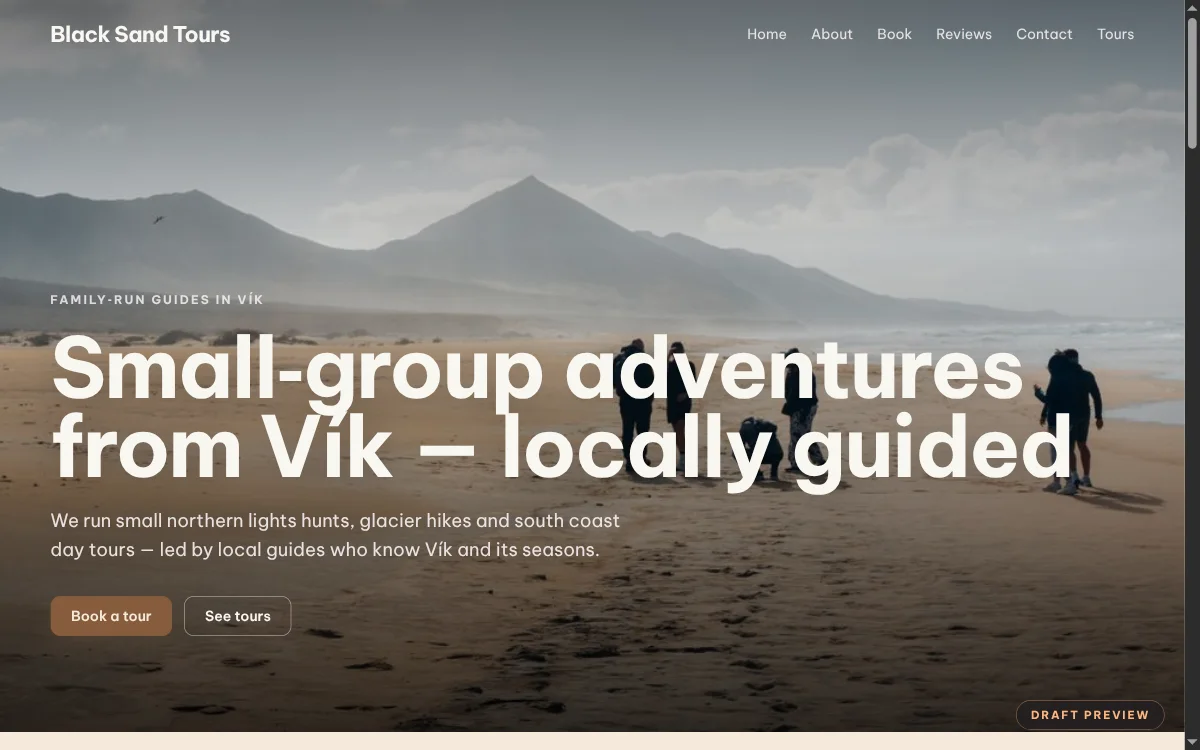
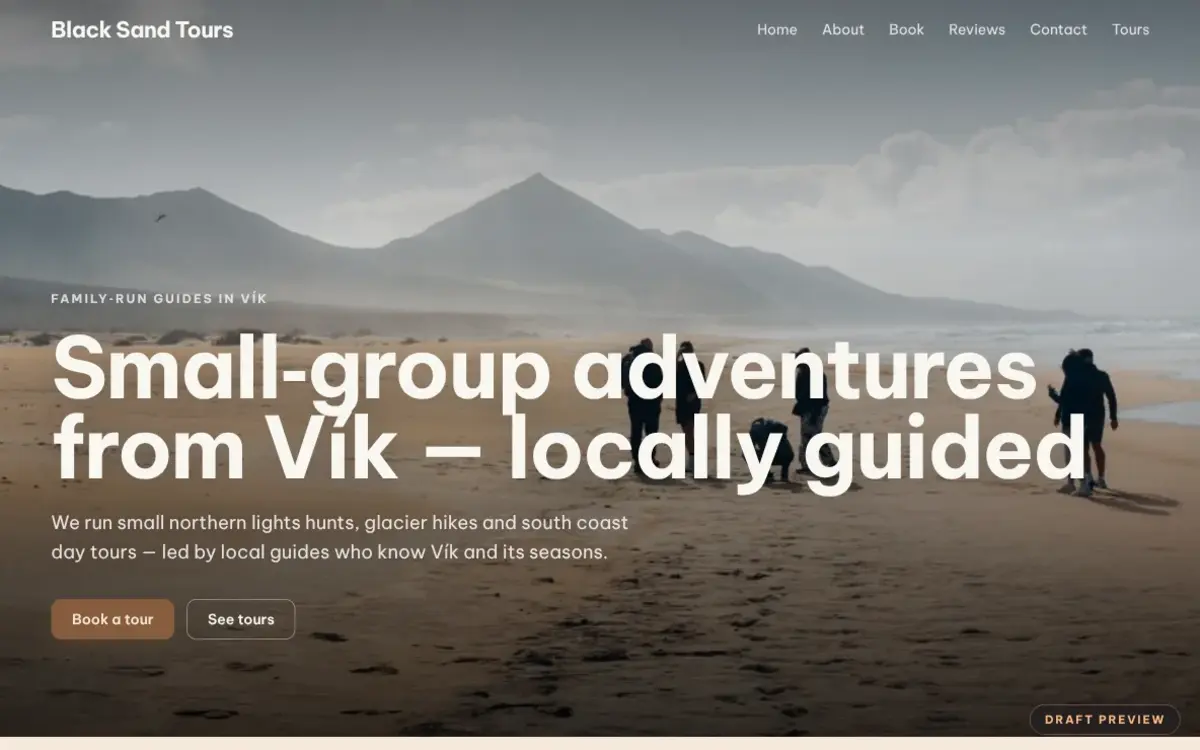
Finish review fixes: true 24px grid, scoped hover, print hrefs
The line unit was 1.5rem on a 15px root, so the grid computed to
22.5px; it is now a literal 24px and both rasters sit on line
multiples. The row hover applies only to anchor rows. The post header
leads with the title. Printed CV links show their address. Specimen
screenshots are cropped to drop the captured scrollbar. The dead
mattisig.dev link is commented out of the CV until registered.

diff --git a/web/css/app.css b/web/css/app.css
@@ -14,7 +14,7 @@
 
 /* One grid: the 24px line is the vertical unit, the character cell is the horizontal one. */
 :root {
-  --line: 1.5rem;
+  --line: 24px;
   --bg: #121316;
   --fg: #e7e5df;
   --muted: #8e9199;
@@ -42,8 +42,8 @@
   --color-accent-fg: var(--accent-fg);
   --font-mono: "JetBrains Mono", ui-monospace, "SFMono-Regular", Menlo, Consolas, monospace;
   --font-sans: var(--font-mono);
-  --spacing-line: 1.5rem;
-  --spacing-half: 0.75rem;
+  --spacing-line: 24px;
+  --spacing-half: 12px;
   --ease-out-expo: cubic-bezier(0.16, 1, 0.3, 1);
 }
 
@@ -76,7 +76,6 @@
     text-underline-offset: 3px;
     text-decoration-thickness: 1px;
     text-decoration-color: color-mix(in srgb, var(--accent) 45%, transparent);
-    transition: text-decoration-color 120ms var(--ease-out-expo);
   }
   .link:hover { text-decoration-color: var(--accent); }
 
@@ -94,17 +93,17 @@
   }
   .row-date { color: var(--muted); transition: color 120ms var(--ease-out-expo); }
   .row-title { text-decoration: underline; text-underline-offset: 3px; text-decoration-thickness: 1px; text-decoration-color: transparent; transition: text-decoration-color 120ms var(--ease-out-expo); }
-  .row:hover .row-date, .row:focus-visible .row-date { color: var(--accent); }
-  .row:hover .row-title, .row:focus-visible .row-title { text-decoration-color: var(--accent); }
+  a.row:hover .row-date, a.row:focus-visible .row-date { color: var(--accent); }
+  a.row:hover .row-title, a.row:focus-visible .row-title { text-decoration-color: var(--accent); }
   @media (max-width: 40rem) {
     .row { grid-template-columns: 1fr; }
   }
 
-  .display { font-size: 2rem; line-height: 3rem; font-weight: 700; letter-spacing: -0.01em; }
-  .title { font-size: 1.6rem; line-height: 3rem; font-weight: 700; letter-spacing: -0.01em; }
+  .display { font-size: 32px; line-height: 48px; font-weight: 700; letter-spacing: -0.01em; }
+  .title { font-size: 24px; line-height: 48px; font-weight: 700; letter-spacing: -0.01em; }
   @media (max-width: 40rem) {
-    .display { font-size: 1.6rem; }
-    .title { font-size: 1.3rem; }
+    .display { font-size: 24px; }
+    .title { font-size: 20px; }
   }
   .section-heading { font-weight: 700; }
   .frame { border: 1px solid var(--rule); }
@@ -122,14 +121,14 @@
   textarea.field { height: auto; padding-block: var(--half); resize: vertical; }
   .field:focus { border-color: var(--accent); outline: none; }
   .btn {
-    display: inline-block;
+    display: inline-flex;
+    align-items: center;
     height: calc(var(--line) * 1.5);
-    line-height: calc(var(--line) * 1.5 - 2px);
+    line-height: var(--line);
     padding: 0 2ch;
     border: 1px solid var(--fg);
     color: var(--fg);
     text-decoration: none;
-    transition: background 120ms var(--ease-out-expo), color 120ms var(--ease-out-expo);
   }
   .btn:hover { background: var(--fg); color: var(--bg); }
   .btn-primary { background: var(--fg); color: var(--bg); }
@@ -167,7 +166,7 @@
 .prose :where(a) { text-decoration-thickness: 1px; text-underline-offset: 3px; font-weight: inherit; }
 .prose :where(code):not(pre code) { font-weight: inherit; background: color-mix(in srgb, var(--fg) 8%, transparent); padding: 0 0.5ch; border-radius: 2px; }
 .prose :where(code)::before, .prose :where(code)::after { content: none; }
-.prose :where(pre) { border: 1px solid var(--rule); border-radius: 0; padding: calc(var(--line) / 2) 2ch; line-height: var(--line); font-size: 1rem; overflow-x: auto; }
+.prose :where(pre) { border: 1px solid var(--rule); border-radius: 0; padding: calc(var(--line) / 2 - 1px) 2ch; line-height: var(--line); font-size: 1rem; overflow-x: auto; }
 .prose :where(blockquote) { border-left: 1px solid var(--rule); padding-left: 2ch; font-style: normal; }
 .prose :where(blockquote p:first-of-type)::before, .prose :where(blockquote p:last-of-type)::after { content: none; }
 .prose :where(hr) { border-color: var(--rule); }
@@ -186,4 +185,6 @@
   html { font-size: 10.5pt; }
   .print-hidden { display: none !important; }
   a { color: inherit; text-decoration: none; }
+  /* Paper has no hover: print the address after every external link in the CV. */
+  .cv a[href^="http"]::after { content: " " attr(href); color: var(--muted); }
 }

diff --git a/web/templates/pages/home.html b/web/templates/pages/home.html
@@ -9,7 +9,7 @@
     </p>
   </div>
   <img src="/static/img/founder-400.jpg" alt="{{.Data.CV.Name}}" width="400" height="400"
-       class="frame order-first mb-line h-[calc(var(--line)*6)] w-[calc(var(--line)*6)] object-cover sm:order-none sm:mb-0 sm:h-[16ch] sm:w-[16ch]">
+       class="frame order-first mb-line h-[calc(var(--line)*6)] w-[calc(var(--line)*6)] object-cover sm:order-none sm:mb-0 sm:h-[calc(var(--line)*6)] sm:w-[16ch]">
 </section>
 
 {{if .Data.Posts}}
@@ -43,7 +43,7 @@
     </div>
     {{if .Image}}
     <a href="{{if .URL}}{{.URL}}{{else}}/work#{{.Slug}}{{end}}" class="mt-line block" rel="noopener">
-      <img src="{{.Image}}" alt="{{.ImageAlt}}" width="1200" height="750" loading="lazy" class="frame aspect-[8/5] w-full object-cover object-top">
+      <img src="{{.Image}}" alt="{{.ImageAlt}}" width="1200" height="750" loading="lazy" class="frame aspect-[8/5] w-full object-cover object-top sm:aspect-auto sm:h-[calc(var(--line)*19)]">
     </a>
     {{end}}
   </article>

diff --git a/web/templates/pages/blog/post.html b/web/templates/pages/blog/post.html
@@ -1,9 +1,9 @@
 {{define "content"}}
 <article class="pt-line">
   <header>
-    <p class="text-muted"><time datetime="{{isoDate .Data.Date}}">{{isoDate .Data.Date}}</time>{{if .Data.Tags}} · {{join .Data.Tags ", "}}{{end}}</p>
     <h1 class="title">{{.Data.Title}}</h1>
-    {{if .Data.Summary}}<p class="text-muted">{{.Data.Summary}}</p>{{end}}
+    {{if .Data.Summary}}<p>{{.Data.Summary}}</p>{{end}}
+    <p class="text-muted"><time datetime="{{isoDate .Data.Date}}">{{isoDate .Data.Date}}</time>{{if .Data.Tags}} · {{join .Data.Tags ", "}}{{end}}</p>
   </header>
   <div class="prose mt-line border-t border-rule">
     {{.Data.HTML}}

diff --git a/web/templates/pages/work.html b/web/templates/pages/work.html
@@ -18,7 +18,7 @@
     </div>
   </div>
   {{if .Image}}
-  <img src="{{.Image}}" alt="{{.ImageAlt}}" width="1200" height="750" loading="lazy" class="frame mt-line aspect-[8/5] w-full object-cover object-top">
+  <img src="{{.Image}}" alt="{{.ImageAlt}}" width="1200" height="750" loading="lazy" class="frame mt-line aspect-[8/5] w-full object-cover object-top sm:aspect-auto sm:h-[calc(var(--line)*19)]">
   {{end}}
 </article>
 {{end}}
